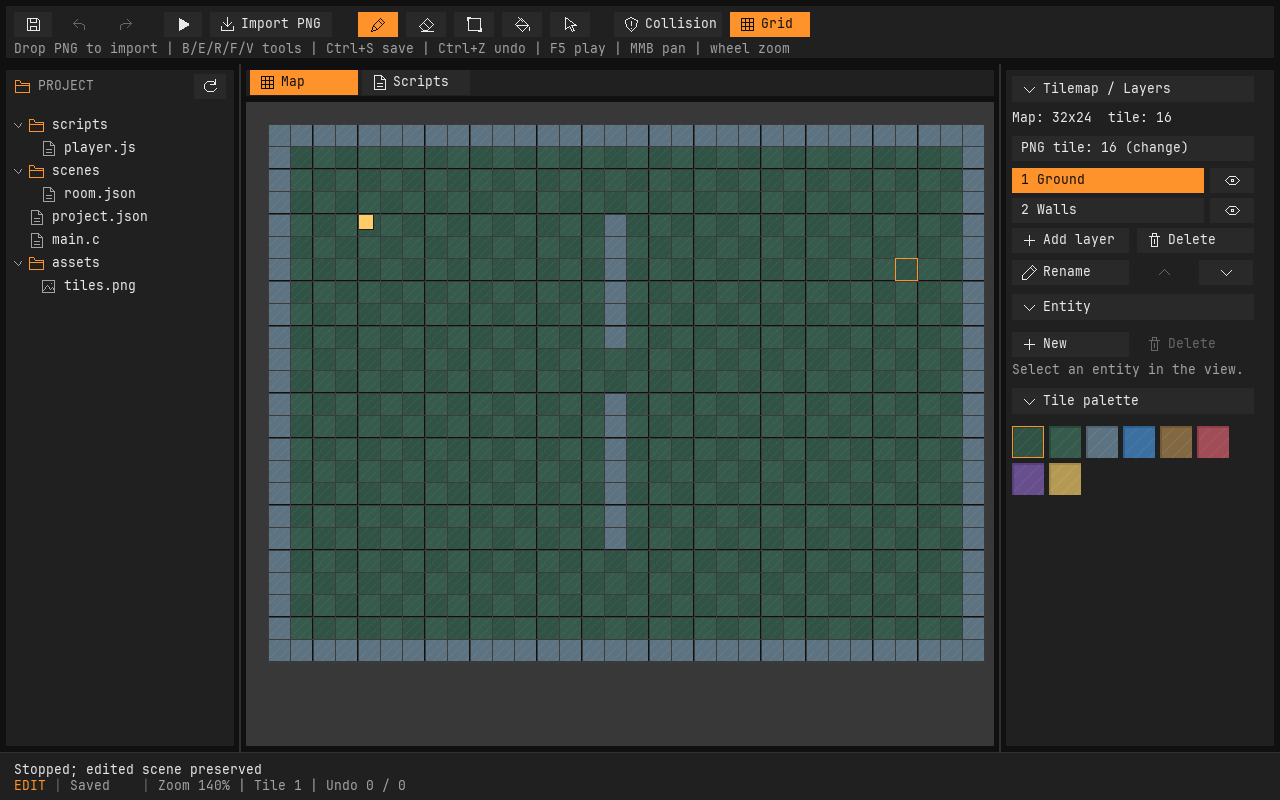
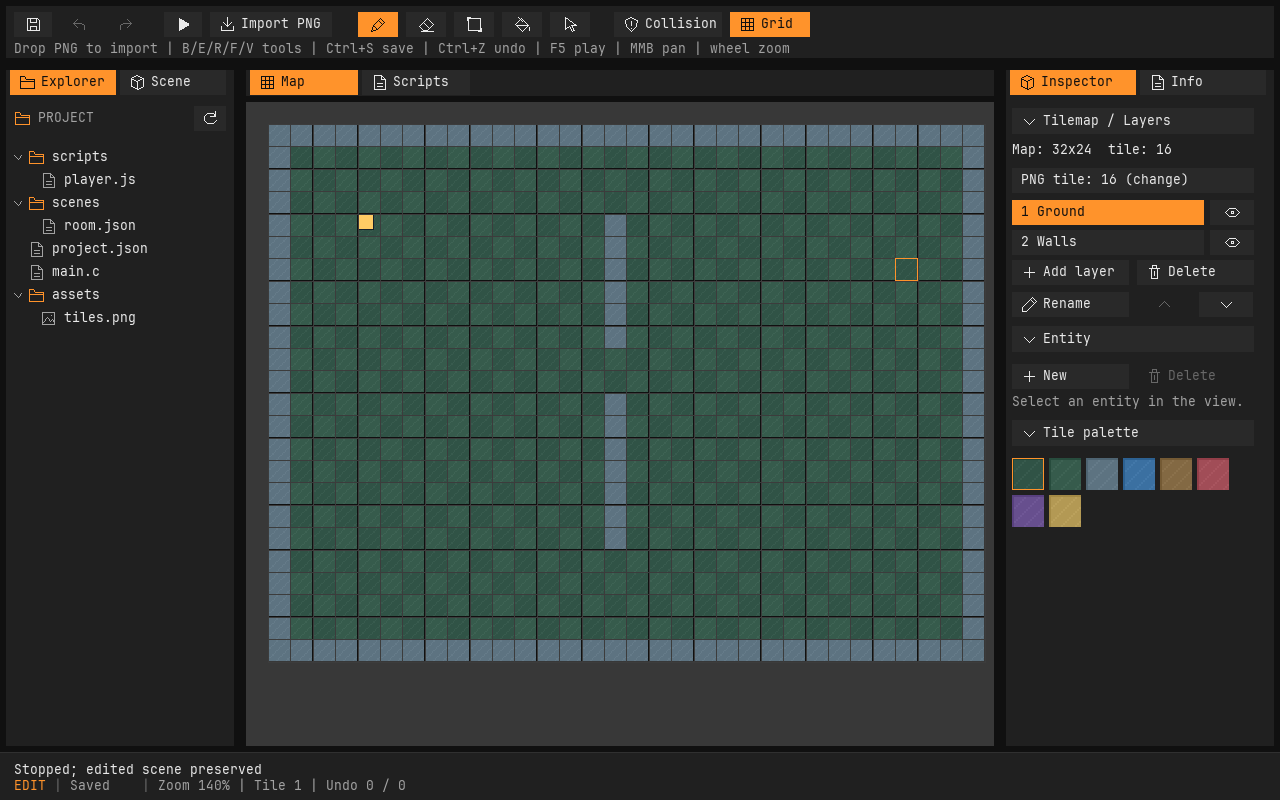
Add independent sidebar tabs and scene entity selection

diff --git a/editor/src/main.c b/editor/src/main.c
@@ -13,6 +13,7 @@
 #define TABS 32
 #define BOTTOM 48
 #define PANEL_GAP 6
+#define SIDE_TOP (TOP + TABS)
 #define TREE_MAX 256
 #define UI_SPLIT_LEFT 0x10001u
 #define UI_SPLIT_RIGHT 0x10002u
@@ -23,6 +24,12 @@
 #define UI_SCRIPT_DOCUMENT 0x10007u
 #define UI_MAP_TAB 0x10008u
 #define UI_SCRIPT_TAB 0x10009u
+#define UI_EXPLORER_TAB 0x1000au
+#define UI_SCENE_TAB 0x1000bu
+#define UI_INSPECTOR_TAB 0x1000cu
+#define UI_INFO_TAB 0x1000du
+#define UI_SCENE_SCROLL 0x1000eu
+#define UI_INFO_SCROLL 0x1000fu
 typedef enum { BRUSH, ERASE, RECTANGLE, FILL, SELECT } Tool;
 typedef enum {
     FIELD_NONE,
@@ -47,8 +54,8 @@ typedef struct {
     SDL_Cursor *resize_cursor;
     UiContext ui;
     UiId widget_scope;
-    UiTabs tabs;
-    UiScroll tree_view, inspector_view;
+    UiTabs tabs, left_tabs, right_tabs;
+    UiScroll tree_view, inspector_view, scene_view, info_view;
     float left_width, right_width;
     bool layers_open, entity_open, palette_open;
     PeScene scene, runtime;
@@ -608,24 +615,114 @@ static void play_toggle(void) {
     } else
         message("Stopped; edited scene preserved");
 }
+static void draw_panel_tabs(UiTabs *tabs, UiRect bar, UiId first, const char *first_label,
+                            const char *second_label, UiIcon first_icon, UiIcon second_icon) {
+    float width = bar.w / 2;
+    ui_tabs_update(&app.ui, tabs, bar, width);
+    ui_clip_push(&app.ui, bar);
+    ui_apply_clip(app.renderer, &app.ui);
+    for (int i = 0; i < tabs->count; i++) {
+        UiRect r = ui_tab_rect(tabs, bar, width, i);
+        bool is_first = tabs->items[i].id == first;
+        ui_draw_tab(app.renderer, (SDL_FRect){r.x, r.y, r.w, r.h},
+                    width < 110 ? ICON_NONE
+                    : is_first  ? first_icon
+                                : second_icon,
+                    is_first ? first_label : second_label, tabs->selected == tabs->items[i].id,
+                    true, ui_hovered(&app.ui, r));
+    }
+    ui_clip_pop(&app.ui);
+    ui_apply_clip(app.renderer, &app.ui);
+}
+static void draw_scene_tree(void) {
+    section(14, SIDE_TOP + 18, ICON_ENTITY, "SCENE ENTITIES");
+    int count = 0;
+    for (int i = 0; i < PE_ENTITIES; i++)
+        if (app.scene.objects[i].alive)
+            count++;
+    app.scene_view.content = count ? count * 26.f : 26;
+    app.scene_view.viewport = (float)(app.height - SIDE_TOP - 46 - BOTTOM - PANEL_GAP);
+    ui_scroll_clamp(&app.scene_view);
+    UiRect track = {LEFT - 18, SIDE_TOP + 46, 8, app.scene_view.viewport};
+    ui_scrollbar(&app.ui, UI_SCENE_SCROLL, track, &app.scene_view, UI_AXIS_Y);
+    ui_clip_push(&app.ui, (UiRect){PANEL_GAP, SIDE_TOP + 46, LEFT - 24, app.scene_view.viewport});
+    ui_apply_clip(app.renderer, &app.ui);
+    float y = SIDE_TOP + 46 - app.scene_view.offset;
+    if (!count)
+        text(14, y + 8, "No entities in scene.", UI_MUTED);
+    for (int i = 0; i < PE_ENTITIES; i++) {
+        const PeObject *o = &app.scene.objects[i];
+        if (!o->alive)
+            continue;
+        char label[40];
+        snprintf(label, sizeof label, "%s %u", o->mask & PE_PLAYER ? "Player" : "Entity",
+                 o->stable_id);
+        app.widget_scope = ui_id("scene_entity") ^ o->stable_id;
+        if (icon_button(12, y, LEFT - 38, ICON_ENTITY, label, "Select entity",
+                        app.selected == o->stable_id, !app.playing && !app.history.pending)) {
+            app.selected = o->stable_id;
+            app.tool = SELECT;
+            app.right_tabs.selected = UI_INSPECTOR_TAB;
+            tab_select(false);
+        }
+        y += 26;
+    }
+    app.widget_scope = 0;
+    ui_clip_pop(&app.ui);
+    ui_apply_clip(app.renderer, &app.ui);
+    ui_draw_scrollbar(app.renderer, &app.ui, UI_SCENE_SCROLL, track, &app.scene_view, UI_AXIS_Y);
+}
+static void draw_info(void) {
+    float x = (float)(app.width - RIGHT + 12);
+    app.info_view.content = 340;
+    app.info_view.viewport = (float)(app.height - SIDE_TOP - BOTTOM - 16);
+    ui_scroll_clamp(&app.info_view);
+    UiRect track = {(float)(app.width - 18), SIDE_TOP + 8, 8, app.info_view.viewport};
+    ui_scrollbar(&app.ui, UI_INFO_SCROLL, track, &app.info_view, UI_AXIS_Y);
+    ui_clip_push(&app.ui, (UiRect){x - 4, SIDE_TOP + 8, RIGHT - 24, app.info_view.viewport});
+    ui_apply_clip(app.renderer, &app.ui);
+    float y = SIDE_TOP + 18 - app.info_view.offset;
+    section(x, y, ICON_FILE, "SCENE INFO");
+    char label[64];
+    snprintf(label, sizeof label, "Map: %d x %d tiles", app.scene.width, app.scene.height);
+    text(x, y + 32, label, UI_TEXT);
+    snprintf(label, sizeof label, "Tile size: %d px", app.scene.tile_size);
+    text(x, y + 56, label, UI_TEXT);
+    snprintf(label, sizeof label, "Layers: %d", app.scene.layer_count);
+    text(x, y + 80, label, UI_TEXT);
+    int count = 0;
+    for (int i = 0; i < PE_ENTITIES; i++)
+        if (app.scene.objects[i].alive)
+            count++;
+    snprintf(label, sizeof label, "Entities: %d / %d", count, PE_ENTITIES);
+    text(x, y + 104, label, UI_TEXT);
+    section(x, y + 148, ICON_EDIT, "SHORTCUTS");
+    const char *help[] = {"Ctrl+S  Save",    "Ctrl+Z  Undo",     "F5      Play / Stop",
+                          "MMB     Pan map", "Wheel   Zoom map", "B/E/R/F/V  Map tools"};
+    for (int i = 0; i < 6; i++)
+        text(x, y + 180 + i * 24, help[i], UI_MUTED);
+    ui_clip_pop(&app.ui);
+    ui_apply_clip(app.renderer, &app.ui);
+    ui_draw_scrollbar(app.renderer, &app.ui, UI_INFO_SCROLL, track, &app.info_view, UI_AXIS_Y);
+}
 static void draw_tree(void) {
-    section(14, TOP + 18, ICON_FOLDER, "PROJECT");
-    if (icon_button(LEFT - 46, TOP + 10, 32, ICON_REFRESH, "", "Refresh project files", false,
+    section(14, SIDE_TOP + 18, ICON_FOLDER, "PROJECT");
+    if (icon_button(LEFT - 46, SIDE_TOP + 10, 32, ICON_REFRESH, "", "Refresh project files", false,
                     true))
         tree_refresh();
     app.tree_view.content = app.tree_count * 23.f;
-    app.tree_view.viewport = (float)(app.height - TOP - 46 - BOTTOM - PANEL_GAP);
+    app.tree_view.viewport = (float)(app.height - SIDE_TOP - 46 - BOTTOM - PANEL_GAP);
     ui_scroll_clamp(&app.tree_view);
-    UiRect track = {LEFT - 18, TOP + 46, 8, app.tree_view.viewport};
+    UiRect track = {LEFT - 18, SIDE_TOP + 46, 8, app.tree_view.viewport};
     ui_scrollbar(&app.ui, UI_TREE_SCROLL, track, &app.tree_view, UI_AXIS_Y);
     app.tree_scroll = (int)(app.tree_view.offset / 23);
-    UiRect tree_clip = {PANEL_GAP, TOP + 46, LEFT - 24, app.tree_view.viewport};
+    UiRect tree_clip = {PANEL_GAP, SIDE_TOP + 46, LEFT - 24, app.tree_view.viewport};
     ui_clip_push(&app.ui, tree_clip);
     ui_apply_clip(app.renderer, &app.ui);
     int visible = (int)(app.tree_view.viewport / 23) + 2;
     for (int i = app.tree_scroll; i < app.tree_count && i < app.tree_scroll + visible; i++) {
         TreeRow row = app.tree[i];
-        float y = TOP + 50 + i * 23 - app.tree_view.offset;
+        float y = SIDE_TOP + 50 + i * 23 - app.tree_view.offset;
         char label[128];
         snprintf(label, sizeof label, "%.20s", row.name);
         SDL_FRect r = {8, y, LEFT - 24, 22};
@@ -676,10 +773,10 @@ static void draw_inspector(void) {
     char label[128], value[64];
     bool enabled = !app.playing;
     float w = RIGHT - 38, half = (w - 8) / 2;
-    UiRect panel = {(float)(app.width - RIGHT + 8), TOP + 8, (float)(RIGHT - 24),
-                    (float)(app.height - TOP - BOTTOM - 16)};
+    UiRect panel = {(float)(app.width - RIGHT + 8), SIDE_TOP + 8, (float)(RIGHT - 24),
+                    (float)(app.height - SIDE_TOP - BOTTOM - 16)};
     ui_scroll_clamp(&app.inspector_view);
-    float y = TOP + 18 - app.inspector_view.offset;
+    float y = SIDE_TOP + 18 - app.inspector_view.offset;
     ui_clip_push(&app.ui, panel);
     ui_apply_clip(app.renderer, &app.ui);
     disclosure(x, y, w, "Tilemap / Layers", &app.layers_open);
@@ -837,20 +934,20 @@ static void draw_inspector(void) {
         }
         y += ((total + columns - 1) / columns) * 37;
     }
-    app.inspector_view.content = y + app.inspector_view.offset - TOP + 8;
-    app.inspector_view.viewport = (float)(app.height - TOP - BOTTOM - 16);
+    app.inspector_view.content = y + app.inspector_view.offset - SIDE_TOP + 8;
+    app.inspector_view.viewport = (float)(app.height - SIDE_TOP - BOTTOM - 16);
     ui_scroll_clamp(&app.inspector_view);
     ui_clip_pop(&app.ui);
     ui_apply_clip(app.renderer, &app.ui);
-    UiRect track = {(float)(app.width - 18), TOP + 8, 8, app.inspector_view.viewport};
+    UiRect track = {(float)(app.width - 18), SIDE_TOP + 8, 8, app.inspector_view.viewport};
     ui_scrollbar(&app.ui, UI_INSPECTOR_SCROLL, track, &app.inspector_view, UI_AXIS_Y);
     ui_draw_scrollbar(app.renderer, &app.ui, UI_INSPECTOR_SCROLL, track, &app.inspector_view,
                       UI_AXIS_Y);
 }
 static void draw_script_inspector(void) {
-    float x = (float)(app.width - RIGHT + 12), y = TOP + 18 - app.inspector_view.offset;
-    UiRect clip = {(float)(app.width - RIGHT + 8), TOP + 8, (float)(RIGHT - 24),
-                   (float)(app.height - TOP - BOTTOM - 16)};
+    float x = (float)(app.width - RIGHT + 12), y = SIDE_TOP + 18 - app.inspector_view.offset;
+    UiRect clip = {(float)(app.width - RIGHT + 8), SIDE_TOP + 8, (float)(RIGHT - 24),
+                   (float)(app.height - SIDE_TOP - BOTTOM - 16)};
     ui_clip_push(&app.ui, clip);
     ui_apply_clip(app.renderer, &app.ui);
     section(x, y, ICON_FILE, "JAVASCRIPT");
@@ -868,11 +965,11 @@ static void draw_script_inspector(void) {
     text(x, y + 394, "document identifiers.", UI_TEXT);
     text(x, y + 426, "Type analysis / LSP later.", UI_MUTED);
     app.inspector_view.content = 460;
-    app.inspector_view.viewport = (float)(app.height - TOP - BOTTOM - 16);
+    app.inspector_view.viewport = (float)(app.height - SIDE_TOP - BOTTOM - 16);
     ui_scroll_clamp(&app.inspector_view);
     ui_clip_pop(&app.ui);
     ui_apply_clip(app.renderer, &app.ui);
-    UiRect track = {(float)(app.width - 18), TOP + 8, 8, app.inspector_view.viewport};
+    UiRect track = {(float)(app.width - 18), SIDE_TOP + 8, 8, app.inspector_view.viewport};
     ui_scrollbar(&app.ui, UI_INSPECTOR_SCROLL, track, &app.inspector_view, UI_AXIS_Y);
     ui_draw_scrollbar(app.renderer, &app.ui, UI_INSPECTOR_SCROLL, track, &app.inspector_view,
                       UI_AXIS_Y);
@@ -926,11 +1023,13 @@ static bool ui_controls_hit(float x, float y) {
         return true;
     if (y >= TOP && y < TOP + TABS && x >= LEFT && x < app.width - RIGHT)
         return true;
-    if (ui_scroll_max(&app.tree_view) > 0 && x >= LEFT - 20 && x < LEFT - PANEL_GAP &&
-        y >= TOP + 46 && y < app.height - BOTTOM)
+    if (ui_scroll_max(app.left_tabs.selected == UI_SCENE_TAB ? &app.scene_view : &app.tree_view) >
+            0 &&
+        x >= LEFT - 20 && x < LEFT - PANEL_GAP && y >= SIDE_TOP + 46 && y < app.height - BOTTOM)
         return true;
-    if (ui_scroll_max(&app.inspector_view) > 0 && x >= app.width - 20 &&
-        x < app.width - PANEL_GAP && y >= TOP && y < app.height - BOTTOM)
+    if (ui_scroll_max(app.right_tabs.selected == UI_INFO_TAB ? &app.info_view
+                                                             : &app.inspector_view) > 0 &&
+        x >= app.width - 20 && x < app.width - PANEL_GAP && y >= TOP && y < app.height - BOTTOM)
         return true;
     if (app.script_tab && se_scroll_hit(&app.script, x, y, app.viewport))
         return true;
@@ -1072,8 +1171,20 @@ static void draw(void) {
         }
     } else
         se_draw(&app.script, app.renderer, &app.ui, app.viewport, app.mx, app.my, app.click);
-    draw_tree();
-    if (app.script_tab)
+    draw_panel_tabs(&app.left_tabs,
+                    (UiRect){PANEL_GAP + 4, TOP + PANEL_GAP, LEFT - 2 * PANEL_GAP - 8, 25},
+                    UI_EXPLORER_TAB, "Explorer", "Scene", ICON_FOLDER, ICON_ENTITY);
+    draw_panel_tabs(&app.right_tabs,
+                    (UiRect){(float)(app.width - RIGHT + PANEL_GAP + 4), TOP + PANEL_GAP,
+                             RIGHT - 2 * PANEL_GAP - 8, 25},
+                    UI_INSPECTOR_TAB, "Inspector", "Info", ICON_ENTITY, ICON_FILE);
+    if (app.left_tabs.selected == UI_SCENE_TAB)
+        draw_scene_tree();
+    else
+        draw_tree();
+    if (app.right_tabs.selected == UI_INFO_TAB)
+        draw_info();
+    else if (app.script_tab)
         draw_script_inspector();
     else
         draw_inspector();
@@ -1116,12 +1227,6 @@ static void draw(void) {
     UiRect ls = left_split(), rs = right_split();
     bool resize = !modal && (ui_hovered(&app.ui, ls) || ui_hovered(&app.ui, rs) ||
                              app.ui.active == UI_SPLIT_LEFT || app.ui.active == UI_SPLIT_RIGHT);
-    box((SDL_FRect){LEFT - 1, TOP, 2, (float)(app.height - TOP - BOTTOM)},
-        resize && (app.ui.active == UI_SPLIT_LEFT || ui_hovered(&app.ui, ls)) ? UI_ACCENT
-                                                                              : UI_BORDER);
-    box((SDL_FRect){(float)(app.width - RIGHT - 1), TOP, 2, (float)(app.height - TOP - BOTTOM)},
-        resize && (app.ui.active == UI_SPLIT_RIGHT || ui_hovered(&app.ui, rs)) ? UI_ACCENT
-                                                                               : UI_BORDER);
     if (app.resize_cursor)
         SDL_SetCursor(resize ? app.resize_cursor : SDL_GetDefaultCursor());
     ui_end_frame(&app.ui);
@@ -1218,6 +1323,7 @@ static void event(SDL_Event *e) {
         ui_pointer(&app.ui, app.mx, app.my, e->type == SDL_EVENT_MOUSE_BUTTON_DOWN);
     bool captured = app.ui.active == UI_SPLIT_LEFT || app.ui.active == UI_SPLIT_RIGHT ||
                     app.ui.active == UI_TREE_SCROLL || app.ui.active == UI_INSPECTOR_SCROLL ||
+                    app.ui.active == UI_SCENE_SCROLL || app.ui.active == UI_INFO_SCROLL ||
                     app.ui.active == UI_SCRIPT_VSCROLL || app.ui.active == UI_SCRIPT_HSCROLL;
     if (!modal && (e->type == SDL_EVENT_MOUSE_MOTION || e->type == SDL_EVENT_MOUSE_BUTTON_UP) &&
         captured)
@@ -1273,9 +1379,13 @@ static void event(SDL_Event *e) {
                 pe_camera_zoom(&app.camera, app.mx - app.viewport.x, app.my - app.viewport.y,
                                powf(1.15f, e->wheel.y));
             else if (app.mx < LEFT)
-                ui_scroll_by(&app.tree_view, -e->wheel.y * 69);
+                ui_scroll_by(app.left_tabs.selected == UI_SCENE_TAB ? &app.scene_view
+                                                                    : &app.tree_view,
+                             -e->wheel.y * 69);
             else if (app.mx > app.width - RIGHT)
-                ui_scroll_by(&app.inspector_view, -e->wheel.y * 60);
+                ui_scroll_by(app.right_tabs.selected == UI_INFO_TAB ? &app.info_view
+                                                                    : &app.inspector_view,
+                             -e->wheel.y * 60);
             else if (app.my >= TOP && app.my < TOP + TABS)
                 ui_tabs_scroll(&app.tabs, (float)(app.width - LEFT - RIGHT - 20), 112,
                                -e->wheel.y * 56);
@@ -1483,7 +1593,7 @@ static bool verify_ui_layout(void) {
     smoke_pointer(SDL_EVENT_MOUSE_MOTION, x - 80, y);
     smoke_pointer(SDL_EVENT_MOUSE_BUTTON_UP, x - 80, y);
     ok = ok && fabsf(app.right_width - 360) < .01f;
-    float header_x = app.width - app.right_width + 30, header_y = TOP + 20;
+    float header_x = app.width - app.right_width + 30, header_y = SIDE_TOP + 20;
     smoke_pointer(SDL_EVENT_MOUSE_BUTTON_DOWN, header_x, header_y);
     smoke_pointer(SDL_EVENT_MOUSE_BUTTON_UP, header_x, header_y);
     ok = ok && !app.layers_open;
@@ -1493,6 +1603,31 @@ static bool verify_ui_layout(void) {
     smoke_pointer(SDL_EVENT_MOUSE_BUTTON_UP, tab_x + 130, tab_y);
     ok = ok && app.tabs.items[0].id == UI_SCRIPT_TAB && app.tabs.items[1].id == UI_MAP_TAB &&
          !app.script_tab;
+    /* Sidebar navigation is independent of workspace tabs and scene history. */
+    float side_y = TOP + PANEL_GAP + 12;
+    float scene_tab_x = PANEL_GAP + 4 + (LEFT - 2 * PANEL_GAP - 8) * .75f;
+    float info_tab_x = app.width - RIGHT + PANEL_GAP + 4 + (RIGHT - 2 * PANEL_GAP - 8) * .75f;
+    smoke_pointer(SDL_EVENT_MOUSE_BUTTON_DOWN, scene_tab_x, side_y);
+    smoke_pointer(SDL_EVENT_MOUSE_BUTTON_UP, scene_tab_x, side_y);
+    smoke_pointer(SDL_EVENT_MOUSE_BUTTON_DOWN, info_tab_x, side_y);
+    smoke_pointer(SDL_EVENT_MOUSE_BUTTON_UP, info_tab_x, side_y);
+    ok = ok && app.left_tabs.selected == UI_SCENE_TAB && app.right_tabs.selected == UI_INFO_TAB &&
+         !app.script_tab;
+    uint32_t saved_selected = app.selected;
+    int saved_tool = app.tool;
+    for (int i = 0; i < PE_ENTITIES; i++) {
+        if (!app.scene.objects[i].alive)
+            continue;
+        smoke_pointer(SDL_EVENT_MOUSE_BUTTON_DOWN, 60, SIDE_TOP + 58);
+        smoke_pointer(SDL_EVENT_MOUSE_BUTTON_UP, 60, SIDE_TOP + 58);
+        ok = ok && app.selected == app.scene.objects[i].stable_id &&
+             app.right_tabs.selected == UI_INSPECTOR_TAB;
+        break;
+    }
+    app.selected = saved_selected;
+    app.tool = saved_tool;
+    app.left_tabs.selected = UI_EXPLORER_TAB;
+    app.right_tabs.selected = UI_INSPECTOR_TAB;
     PeText saved = app.script.document;
     char lines[4096] = "";
     for (int i = 0; i < 100; i++)
@@ -1578,6 +1713,10 @@ int main(int argc, char **argv) {
     app.layers_open = app.entity_open = app.palette_open = true;
     UiTab tabs[] = {{UI_MAP_TAB, true}, {UI_SCRIPT_TAB, true}};
     ui_tabs_init(&app.tabs, tabs, 2, UI_MAP_TAB);
+    UiTab left_tabs[] = {{UI_EXPLORER_TAB, true}, {UI_SCENE_TAB, true}};
+    UiTab right_tabs[] = {{UI_INSPECTOR_TAB, true}, {UI_INFO_TAB, true}};
+    ui_tabs_init(&app.left_tabs, left_tabs, 2, UI_EXPLORER_TAB);
+    ui_tabs_init(&app.right_tabs, right_tabs, 2, UI_INSPECTOR_TAB);
     app.resize_cursor = SDL_CreateSystemCursor(SDL_SYSTEM_CURSOR_EW_RESIZE);
     app.width = 1280;
     app.height = 800;

diff --git a/docs/IMPLEMENTIERUNG.md b/docs/IMPLEMENTIERUNG.md
@@ -112,7 +112,7 @@ Weltkoordinaten sind Pixel, X zeigt nach rechts und Y nach unten. Die Kamera spe
 
 Der Renderer zeichnet sichtbare Tile-Ebenen, danach Entity-Rechtecke. Die erste Version hat noch keine frei konfigurierbare Sprite-Sortierung. Die Szene ist auf den mittleren Viewport begrenzt. PNG-Texturen verwenden nearest-neighbor filtering. Subpixel-Zoom ist im Editor erlaubt; eine feste interne Spielauflösung mit ganzzahliger Skalierung ist noch nicht umgesetzt.
 
-Die Editor-GUI verwendet die gemeinsame `penguin_ui`-/`penguin_ui_sdl`-Bibliothek: dunklere graue Panels, orange Akzente, gerade Kanten und einfarbige Buttons/Tabs ohne Rundungen. Text nutzt eingebettete JetBrains Mono über `ui_text`; Standardfarben und `UiTheme` sind in `ui/include/penguin/ui_sdl.h` definiert. Komponenten, API und Verwendung in Spielen erklärt [UI_BIBLIOTHEK.md](UI_BIBLIOTHEK.md). Die Icons werden mit SDL-Linien und Flächen gezeichnet, benötigen keine Icon-Schrift oder Bilddateien und folgen den Hover-, Auswahl- und Deaktiviert-Zuständen. Werkzeugbuttons zeigen Tooltips mit Namen und Tastenkürzeln. Die kompakte Toolbar enthält keinen App-Titel; EDIT/PLAY und Saved/Modified stehen unten in der Statuszeile zusammen mit Zoom, Tile-Auswahl und Undo-Verlauf. Panel-Positionen richten sich nach der Toolbar-Höhe und den ziehbaren Spaltentrennern. Inspector-Bereiche sind klappbar, Tabs umsortierbar und Scrollbars werden bei überlaufendem Inhalt angezeigt. Sie benötigt keine zusätzliche GUI-Abhängigkeit. Textfelder akzeptieren SDL-Texteingabe; Backspace entfernt ein UTF-8-Zeichen, aber die Schrift stellt ASCII und Latin-1 dar, weitere Unicode-Zeichen erscheinen als Platzhalter. Der Script-Editor ergänzt Textauswahl und Zwischenablage. Die kleinen Inspector-/Modal-Felder bleiben einfache Eingaben. Docking und frei verschiebbare Panels sind noch nicht vorhanden.
+Die Editor-GUI verwendet die gemeinsame `penguin_ui`-/`penguin_ui_sdl`-Bibliothek: dunklere graue Panels, orange Akzente, gerade Kanten und einfarbige Buttons/Tabs ohne Rundungen. Text nutzt eingebettete JetBrains Mono über `ui_text`; Standardfarben und `UiTheme` sind in `ui/include/penguin/ui_sdl.h` definiert. Komponenten, API und Verwendung in Spielen erklärt [UI_BIBLIOTHEK.md](UI_BIBLIOTHEK.md). Die Icons werden mit SDL-Linien und Flächen gezeichnet, benötigen keine Icon-Schrift oder Bilddateien und folgen den Hover-, Auswahl- und Deaktiviert-Zuständen. Werkzeugbuttons zeigen Tooltips mit Namen und Tastenkürzeln. Die kompakte Toolbar enthält keinen App-Titel; EDIT/PLAY und Saved/Modified stehen unten in der Statuszeile zusammen mit Zoom, Tile-Auswahl und Undo-Verlauf. Panel-Positionen richten sich nach der Toolbar-Höhe und den ziehbaren Spaltentrennern. Inspector-Bereiche sind klappbar, Tabs umsortierbar und Scrollbars werden bei überlaufendem Inhalt angezeigt. Die Seitenpanels bieten eigene Tabgruppen (Explorer/Scene und Inspector/Info). Scene ermöglicht die Entity-Auswahl; Info zeigt Szenenstatistik und Tastenkürzel. Die verstellbaren Spalten nutzen unsichtbare Griffe im Zwischenraum ohne gezeichnete Trennlinie. Sie benötigt keine zusätzliche GUI-Abhängigkeit. Textfelder akzeptieren SDL-Texteingabe; Backspace entfernt ein UTF-8-Zeichen, aber die Schrift stellt ASCII und Latin-1 dar, weitere Unicode-Zeichen erscheinen als Platzhalter. Der Script-Editor ergänzt Textauswahl und Zwischenablage. Die kleinen Inspector-/Modal-Felder bleiben einfache Eingaben. Docking und frei verschiebbare Panels sind noch nicht vorhanden.
 
 ## Play-Modus und Kollision
 

diff --git a/docs/UI_BIBLIOTHEK.md b/docs/UI_BIBLIOTHEK.md
@@ -124,3 +124,8 @@ Editor-Smoke-Tests ziehen beide Spaltentrenner, klappen einen Inspector-Bereich 
 Nach Bedarf ergänzen wir Checkboxen/Radio-Buttons, Slider, Dropdowns, allgemeine Text-/Zahlenfelder, Menüleisten, Dialogbausteine und Listen-/Baumansichten. Dazu gehören später Tab-Navigation, eine bessere Textdarstellung und gespeicherte Benutzerlayouts. Jede Komponente soll einen kleinen Daten-/Eingabeteil und eine getrennte Darstellung erhalten. Freies Docking und ein vollständiges IDE-Framework bleiben größere, separate Aufgaben.
 
 Der Editor verwendet `UI_CANVAS` (#101010) als dunkle Grundfläche und `UI_PANEL` (#202020) für abgesetzte Panels. Toolbar, Dateibaum und Inspector haben 6 px Außenabstand. Buttons verwenden #292929, Hover #393939; die orange Akzentfarbe bleibt erhalten. Map- und Script-Arbeitsflächen berücksichtigen dieselben Abstände bei Darstellung und Eingabe.
+
+
+Die Seitenpanels verwenden ebenfalls `UiTabs`: links **Explorer / Scene**, rechts **Inspector / Info**. Alle drei Tabgruppen haben unabhängige Auswahl und Reihenfolge; Tabs können innerhalb ihrer Gruppe umsortiert werden. Scene listet die lebenden Entities der bearbeiteten Szene. Ein Klick wählt die Entity aus, aktiviert Map und Inspector und ändert keine Szenendaten. Während Play oder einer laufenden Bearbeitung ist diese Auswahl gesperrt. Info zeigt Kartengröße, Tilegröße, Ebenen-/Entity-Anzahl und Tastenkürzel. Explorer, Scene und Info behalten eigene Scrollpositionen. Zusätzliche Ansichten können später mit einer stabilen Tab-ID und einem eigenen Inhaltsrenderer ergänzt werden; gruppenübergreifendes Docking ist noch nicht vorhanden.
+
+Zwischen den Spalten werden keine Trennlinien gezeichnet, auch nicht bei Hover. Der dunkle Zwischenraum bleibt als unsichtbarer Resize-Griff bedienbar und zeigt den horizontalen Resize-Cursor.

diff --git a/docs/TESTPLAN.md b/docs/TESTPLAN.md
@@ -44,3 +44,8 @@ Die automatisierten Tests wurden in der Entwicklungsumgebung headless ausgeführ
 5. Map-/Scripts-Tabs umsortieren. Der Inhalt bleibt seinem Tab zugeordnet, Wechsel erhält Text und Kamera.
 6. Button drücken und außerhalb loslassen: keine Aktion. Fokusverlust während Drag beendet Capture.
 7. `penguin_ui_demo` starten und dieselben UI-Komponenten ohne Engine-/Editorfunktionen prüfen.
+
+8. Links Explorer/Scene und rechts Inspector/Info wechseln, auch im Scripts-Tab. Die Gruppen schalten unabhängig voneinander; ihre Tabs lassen sich innerhalb der Gruppe umsortieren. Die Inhalte folgen der Tab-ID.
+9. Scene: Entity anklicken. Map und Inspector werden aktiv, die passende Entity ist ausgewählt. Auswahl/Tabwechsel erzeugen keine Undo-Schritte. Löschen/Undo im Inspector aktualisieren die Scene-Liste. Leere Szenen zeigen einen Hinweis.
+10. Viele Entities anlegen und Scene scrollen; dann Explorer öffnen und zurückwechseln. Beide Scrollpositionen bleiben separat erhalten. Info zeigt aktuelle Szenenzahlen. Bei minimalen Spaltenbreiten passen die Tabtitel weiterhin.
+11. Zwischenräume der Spalten prüfen: keine sichtbaren Trennstriche, auch bei Hover. Resize-Cursor und Ziehen funktionieren weiterhin.
